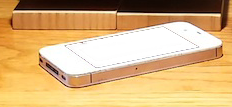
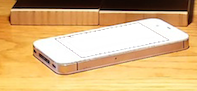
resize

diff --git a/js/projects/spinny.js b/js/projects/spinny.js
@@ -16,7 +16,7 @@ define(['lib/d3', 'templates/project_detail'], function(d3, projectTemplate) {
 				caption: "Made with JavaScript.",
 				description: "I wanted to create an interactive photo-realistic scene."
 			},
-			nativePaneWidth = 1000,
+			nativePaneWidth = 850,
 			windowWidth = $(window).width(),
 			adjustedWindowWidth = windowWidth < 2000 ? windowWidth : 2000,
 			widthScale = d3.scale.linear().domain([320, 2000]).range([1.0, 0.4]).clamp(true),
@@ -38,7 +38,7 @@ define(['lib/d3', 'templates/project_detail'], function(d3, projectTemplate) {
 			},
 			globeConfig = {
 				length: 61,
-				width: 360,
+				width: 306,
 				heightRatio: 1,
 				left: 0.5182,
 				top: 0.044
@@ -48,7 +48,7 @@ define(['lib/d3', 'templates/project_detail'], function(d3, projectTemplate) {
 					id: "candle",
 					length: 35,
 					currentFrame: 0,
-					width: 23.3,
+					width: 19.83,
 					heightRatio: 2.69,
 					left: 0.185,
 					top: 0.6005
@@ -57,7 +57,7 @@ define(['lib/d3', 'templates/project_detail'], function(d3, projectTemplate) {
 					id: "phone",
 					length: 102,
 					currentFrame: 0,
-					width: 134,
+					width: 113.9,
 					heightRatio: 0.3134,
 					left: 0.372, 
 					top: 0.852
@@ -92,8 +92,8 @@ define(['lib/d3', 'templates/project_detail'], function(d3, projectTemplate) {
 				});
 			});
 
-			$("#phone_mask").css("background-size", ((paneWidth / nativePaneWidth) * 232) + "px auto");
-			$("#globe_mask").css("background-size", ((paneWidth / nativePaneWidth) * 601) + "px auto");
+			$("#phone_mask").css("background-size", ((paneWidth / nativePaneWidth) * 197) + "px auto");
+			$("#globe_mask").css("background-size", ((paneWidth / nativePaneWidth) * 511) + "px auto");
 
 			mainPane.css({
 				width: paneWidth,
